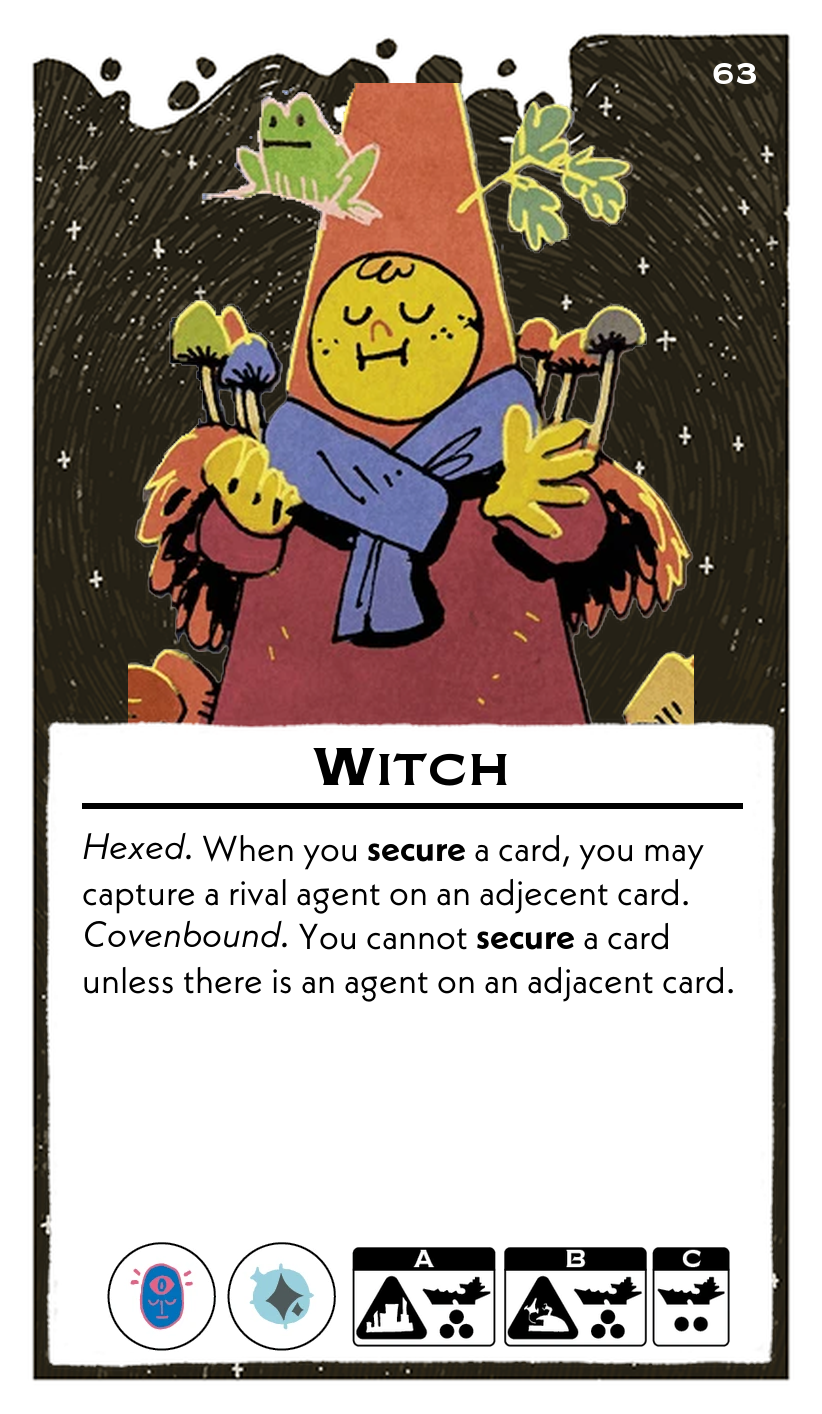
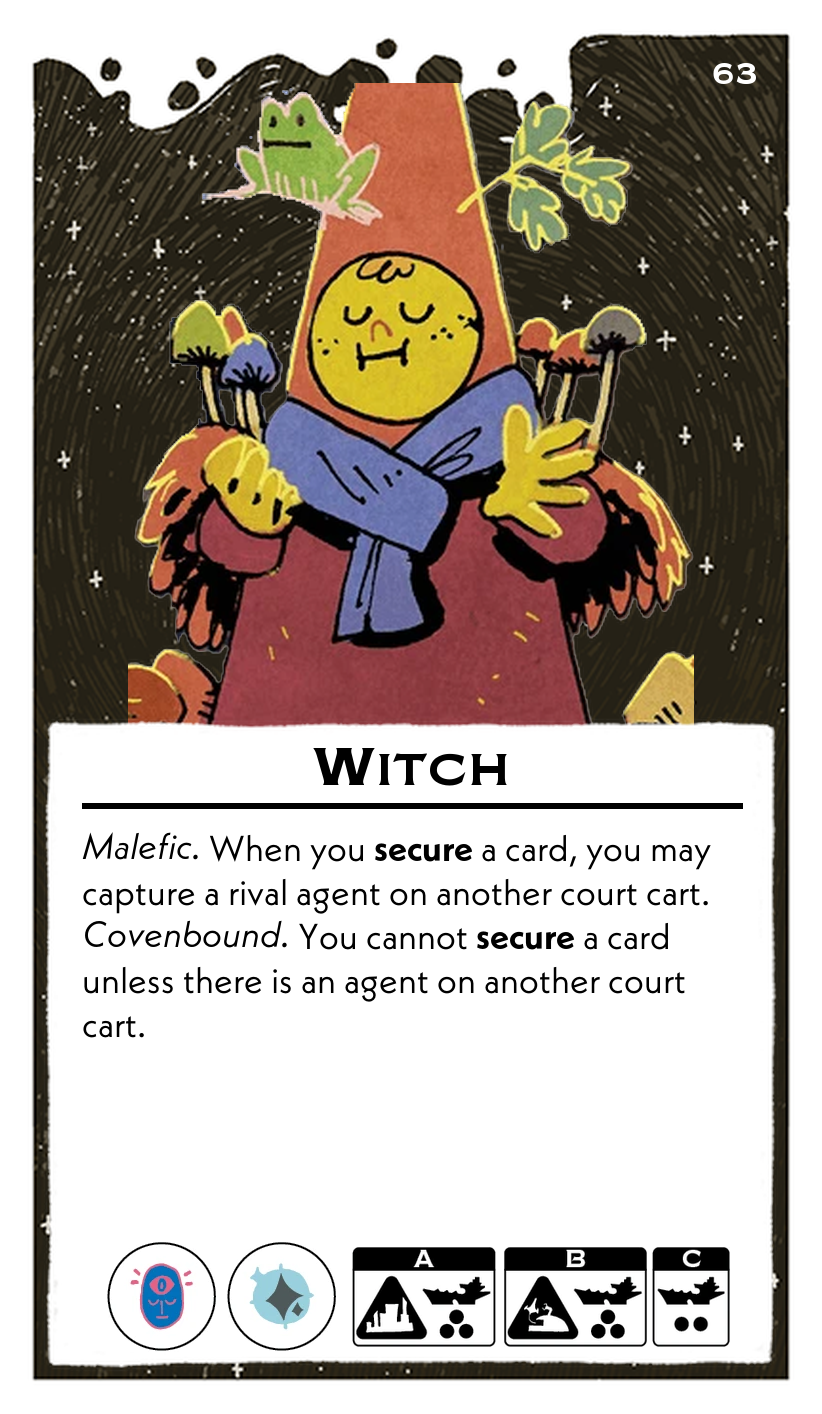
t

Changed region(s): [[0.0912, 0.5912, 0.8516, 0.6535], [0.6387, 0.6846, 0.882, 0.7157], [0.1217, 0.7157, 0.1825, 0.7468]]

diff --git a/scripts/leadersFormatted.py b/scripts/leadersFormatted.py
@@ -588,7 +588,7 @@ leaders = [
         "name": "Terraformer",
         "abilities": (
             "*Genesiacal.* At the start of each chapter, place a resource from the fullest supply on a planet you control (if tied, you choose). That planet now has only that resource type. Also do this after you destroy a city on a planet.\n"
-            "*Codependent.* When you **tax**, you only gain resources from terraformed planets."
+            "*Codependent.* When you **tax**, you only gain resources from altered planets."
         ),
         "resources": ["Psionic", "Material"],
         "setup": {
@@ -872,7 +872,7 @@ leaders = [
         "name": "Bomber",
         "abilities": (
             "*Incendiary.* When attacking in **battle**, before collecting dice, you may destroy 1 fresh attacking ship to destroy 2 defending ships.\n"
-            "*Infamous.* When you destroy a starport, also **Provoke** **Outrage** of its system's tyoe."
+            "*Infamous.* When you destroy a starport, also **Provoke** **Outrage** of that starport's planet type."
         ),
         "resources": ["Weapon", "Fuel"],
         "setup": {
@@ -962,8 +962,8 @@ leaders = [
     {
         "name": "Witch",
         "abilities": (
-            "*Hexed.* When you **secure** a card, you may capture a rival agent on an adjecent card.\n"
-            "*Covenbound.* You cannot **secure** a card unless there is an agent on an adjacent card."
+            "*Malefic.* When you **secure** a card, you may capture a rival agent on another court cart.\n"
+            "*Covenbound.* You cannot **secure** a card unless there is an agent on another court cart."
         ),
         "resources": ["Psionic", "Relic"],
         "setup": {
